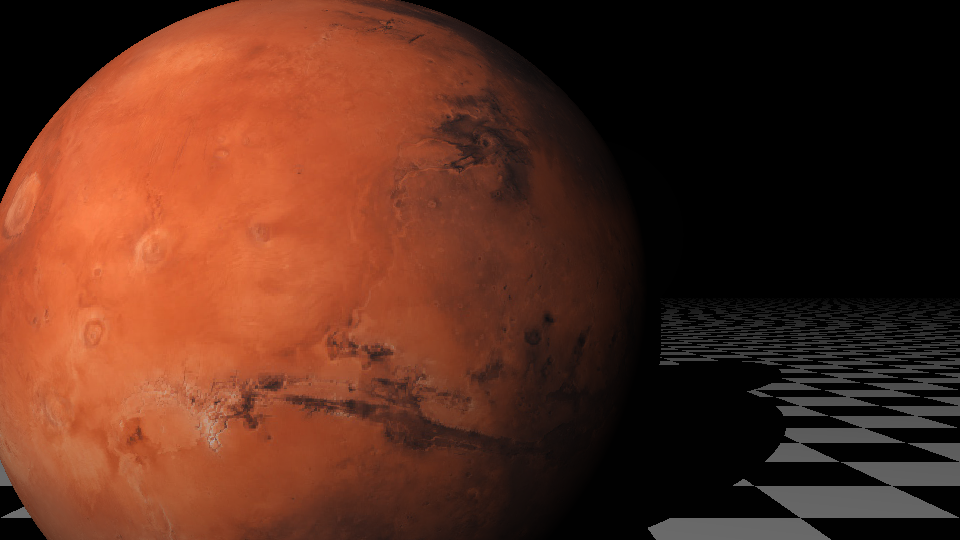
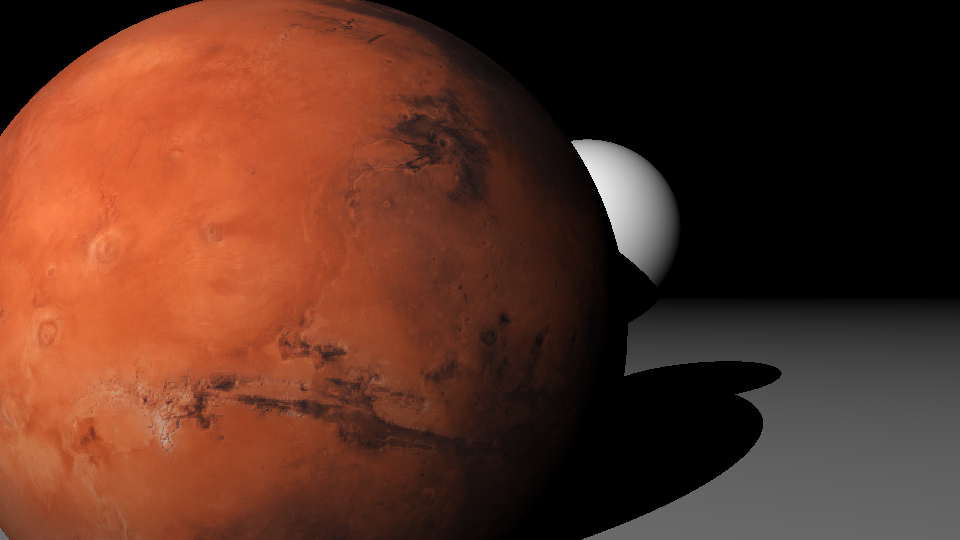
feat: create texture slot

diff --git a/ray_tracer/infrastructure/numpy/shader.py b/ray_tracer/infrastructure/numpy/shader.py
@@ -1,7 +1,10 @@
+from dataclasses import dataclass
 from functools import reduce
+from pathlib import Path
 from typing import Self
 
 import numpy as np
+from PIL import Image
 
 from ray_tracer.application import Renderer, Shader
 from ray_tracer.domain import DomeLight, Scene3D, Shape
@@ -11,6 +14,21 @@ from ray_tracer.infrastructure.numpy.shape import NumpyTexturedSphere
 FARAWAY = 1.0e39
 
 
+@dataclass
+class Slot:
+    color: NumpyRGBColor | Path | None
+    intensity: float
+
+
+@dataclass
+class Specular(Slot):
+    roughness: float
+
+
+class Diffuse(Slot):
+    pass
+
+
 class Texture:
     def __init__(self, color: NumpyRGBColor | None = None) -> None:
         self.color = color if color is not None else NumpyRGBColor(1, 1, 1)
@@ -18,16 +36,6 @@ class Texture:
     def get_color(self, intersection_point: NumpyVectorArray3D) -> NumpyRGBColor:
         """Returns the color of the texture at the intersection point."""
         return self.color
-
-
-# class UVTexture(Texture):
-#     def __init__(self, texture_path: str) -> None:
-#         image = Image.open(texture_path).convert("RGB")
-#         self.texture = np.asarray(image) / 255.0
-#         self.height, self.width, _ = self.texture.shape
-
-#     def get_color(self, intersection_point: NumpyVectorArray3D) -> NumpyRGBColor:
-#         return super().get_color(intersection_point)
 
 
 class TextureChecker(Texture):
@@ -46,23 +54,23 @@ class TextureChecker(Texture):
 class NumpyShader(Shader):
     def __init__(
         self,
+        diffuse_slot: Diffuse,
+        specular_slot: Specular,
         reflection_gain: float,
         specular_gain: float,
         specular_roughness: float,
         iridescence_gain: float,
-        diffuse_gain: float,
-        diffuse_color: Texture,
     ):
         self.reflection_gain = reflection_gain
         self.specular_gain = specular_gain
         self.specular_roughness = specular_roughness
         self.iridescence_gain = iridescence_gain
-        self.diffuse_gain = diffuse_gain
-        self.diffuse_color = diffuse_color
         self.specular_ior = 1.5  # default value for glass
         self.thin_film_weight = 0.1  # range [0, 1]
         self.thin_film_thickness = 0.3  # range [0, 1]
         self.thin_film_ior = 1.4  # range [1, 3]
+        self.diffuse_slot = diffuse_slot
+        self.specular_slot = specular_slot
 
     def to_rgb(self, shader: Self) -> NumpyRGBColor:
         return NumpyRGBColor(
@@ -94,9 +102,9 @@ class NumpyShader(Shader):
             shape,
         )
 
-        color = self._calculate_ambient_color()
+        # color = self._calculate_ambient_color()
 
-        color += self._calculate_diffuse(intersection_point, normal, direction_to_light, is_in_light, shape)
+        color = self._calculate_diffuse(intersection_point, normal, direction_to_light, is_in_light, shape)
 
         reflection = self._calculate_reflection(
             nudged_intersection_point,
@@ -147,13 +155,18 @@ class NumpyShader(Shader):
         """Calculates the diffuse color of the shape at the intersection point."""
         diffuse_light_intensity = np.maximum(normal.dot(direction_to_light), 0)
 
-        # Check if the shape is a NumpyTexturedSphere and apply texture
-        if isinstance(shape, NumpyTexturedSphere):
-            texture_color = shape.diffusecolor(intersection_point)
-        else:
-            texture_color = self.diffuse_color.get_color(intersection_point)
+        if self.diffuse_slot.color and isinstance(self.diffuse_slot.color, Path):
+            diffuse_color = Image.open(self.diffuse_slot.color).convert("RGB")
 
-        return texture_color * diffuse_light_intensity * is_in_light * self.diffuse_gain
+            u, v = shape.get_uvs(intersection_point)
+            diffuse_color = self.get_texture_color(diffuse_color, u, v)
+
+        elif isinstance(self.diffuse_slot.color, NumpyRGBColor):
+            diffuse_color = self.diffuse_slot.color
+        else:
+            diffuse_color = NumpyRGBColor(0.5, 0.5, 0.5)
+
+        return diffuse_color * diffuse_light_intensity * is_in_light * self.diffuse_slot.intensity
 
     def _calculate_reflection(  # TODO: VOIR TRANSMISSION
         self,
@@ -333,3 +346,17 @@ class NumpyShader(Shader):
         spec_final = NumpyRGBColor(1, 1, 1) * np.where(NdotV <= 0, 0, spec_final)
 
         return NumpyRGBColor(spec_final.x, spec_final.y, spec_final.z)
+
+    def get_texture_color(self, texture: Image, u: np.ndarray, v: np.ndarray) -> NumpyRGBColor:
+        texture_data = np.array(texture)  # shape = (height, width, channels)
+
+        u = np.mod(u, 1)  # if u > 1, wrap around
+        v = np.mod(v, 1)
+
+        # find u and v in the image
+        i = (u * (texture_data.shape[1] - 1)).astype(int)
+        j = (v * (texture_data.shape[0] - 1)).astype(int)
+
+        colors = texture_data[j, i, :3] / 255.0
+
+        return NumpyRGBColor(colors[..., 0], colors[..., 1], colors[..., 2])

diff --git a/ray_tracer/infrastructure/numpy/shape.py b/ray_tracer/infrastructure/numpy/shape.py
@@ -53,6 +53,14 @@ class NumpySphere(Shape):
     def diffusecolor(self, intersection_point: NumpyVectorArray3D) -> NumpyRGBColor:
         return NumpyRGBColor(1, 1, 1)
 
+    def get_uvs(self, hit_point: NumpyVector3D) -> NumpyRGBColor:
+        normals = hit_point - self.center
+
+        u = 0.5 + np.arctan2(normals.z, normals.x) / (2 * np.pi)
+        v = 0.5 - np.arcsin(normals.y) / np.pi
+
+        return u, v
+
 
 class NumpyTexturedSphere(NumpySphere):
     def __init__(
@@ -70,42 +78,12 @@ class NumpyTexturedSphere(NumpySphere):
         self.texture = Image.open(texture_path).convert("RGB")
         # self.texture = np.asarray(image) / 255.0
 
-    # def diffusecolor(self, intersection_point: NumpyVectorArray3D) -> NumpyRGBColor:
-    #     normal = (intersection_point - self.center).norm()
-
-    #     u = 0.5 + np.arctan2(normal.z, normal.x) / (2 * np.pi)
-    #     v = 0.5 - np.arcsin(normal.y) / np.pi
-
-    #     u = u % 1  # Repeat if u > 1
-    #     v = v % 1
-    #     height, width, _ = self.texture.shape
-
-    #     i = (u * (width - 1)).astype(int) if isinstance(u, np.ndarray) else int(u * (width - 1))
-    #     j = (v * (height - 1)).astype(int) if isinstance(v, np.ndarray) else int(v * (height - 1))
-
-    #     color = self.texture[j, i, :3]
-    #     if len(color.shape) > 1 and color.shape[0] > 1:
-    #         color = color.mean(axis=0)  # Reduce to a single RGB value by averaging
-    #     if color.shape != (3,):
-    #         if color.shape == (1, 3):
-    #             color = color.flatten()
-    #         else:
-    #             raise ValueError(f"Expected 3 color channels, but got {color.shape}")
-    #     r, g, b = color
-    #     return NumpyRGBColor(r, g, b)
-
     def diffusecolor(self, hit_point: NumpyVector3D) -> NumpyRGBColor:
         """Calcule la couleur diffusée à partir d'un point d'impact, en tenant compte de la texture.
         On considère que les composantes de hit_point et self.center sont des tableaux NumPy.
         """
         if self.texture:
-            # Calculer le vecteur normal pour chaque hit_point.
             normals = hit_point - self.center
-            # Calculer la norme sur l'axe approprié selon la structure de vos vecteurs.
-            # Ici, j'assume que les données sont rangées de sorte à ce que l'axe 0
-            # représente les composantes x, y, z par exemple.
-            # norm = normals.norm()
-            # normals = normals / norm
 
             # Calculer les coordonnées de texture (u, v) pour tous les points
             u = 0.5 + np.arctan2(normals.z, normals.x) / (2 * np.pi)
@@ -114,24 +92,3 @@ class NumpyTexturedSphere(NumpySphere):
             return get_texture_color(self.texture, u, v)
         else:
             return NumpyRGBColor(0.5, 0.5, 0.5)
-
-
-def get_texture_color(texture: Image, u, v) -> NumpyRGBColor:
-    """Récupère, de façon vectorisée, la couleur à partir d'une texture pour des coordonnées UV données.
-    Les coordonnées u et v sont supposées être des tableaux NumPy.
-    """
-    # Convertir l'image en tableau NumPy (par exemple, shape = (hauteur, largeur, canaux)).
-    texture_data = np.array(texture)
-
-    # Gérer la répétition si u ou v sont supérieures à 1
-    u = np.mod(u, 1)
-    v = np.mod(v, 1)
-
-    # Calculer les indices dans l'image
-    i = (u * (texture_data.shape[1] - 1)).astype(int)
-    j = (v * (texture_data.shape[0] - 1)).astype(int)
-
-    # Extraction vectorisée des pixels
-    colors = texture_data[j, i, :3] / 255.0
-    # On suppose que NumpyRGBColor peut être construit en passant les trois tableaux correspondant aux composantes R, G et B.
-    return NumpyRGBColor(colors[..., 0], colors[..., 1], colors[..., 2])

diff --git a/main.py b/main.py
@@ -4,7 +4,7 @@ from pathlib import Path
 from ray_tracer.application import render_image_pipeline
 from ray_tracer.domain import Camera, DomeLight, PointLight, Scene3D
 from ray_tracer.infrastructure.numpy.base import NumpyRenderer, NumpyVector3D
-from ray_tracer.infrastructure.numpy.shader import NumpyShader, Texture, TextureChecker
+from ray_tracer.infrastructure.numpy.shader import Diffuse, NumpyShader, Specular, Texture, TextureChecker
 from ray_tracer.infrastructure.numpy.shape import NumpyRGBColor, NumpySphere, NumpyTexturedSphere
 
 if __name__ == "__main__":
@@ -16,31 +16,37 @@ if __name__ == "__main__":
                 NumpyVector3D(0.55, 0.5, 3),
                 0.5,
                 NumpyShader(
+                    Diffuse(NumpyRGBColor(1, 1, 1), 1.0),
+                    Specular(NumpyRGBColor(0, 1, 1), 0.5, 0.5),
                     reflection_gain=0.0,
                     specular_gain=0,
                     specular_roughness=0.01,
                     iridescence_gain=0,
-                    diffuse_gain=0.0,
-                    diffuse_color=Texture(NumpyRGBColor(1, 1, 1)),
                 ),
             ),
-            NumpyTexturedSphere(
-                NumpyVector3D(-0.45, 0.1, 1),
+            NumpySphere(
+                NumpyVector3D(-0.55, 0.1, 1),
                 1,
                 NumpyShader(
+                    Diffuse(Path("sourceimages/2k_mars.jpg"), 1.0),
+                    Specular(NumpyRGBColor(1, 1, 1), 1.0, 0.5),
                     reflection_gain=0,
                     specular_gain=0.1,
                     specular_roughness=0.1,
                     iridescence_gain=0.0,
-                    diffuse_gain=1.0,
-                    diffuse_color=Texture(NumpyRGBColor(1, 1, 1)),
                 ),
-                Path("sourceimages/2k_mars.jpg"),
             ),
             NumpySphere(
                 NumpyVector3D(0, -99999.5, 0),
                 99999,
-                NumpyShader(0.0, 0.1, 0.5, 0.0, 1.0, TextureChecker()),
+                NumpyShader(
+                    Diffuse(NumpyRGBColor(1, 1, 1), 1.0),
+                    Specular(NumpyRGBColor(0, 1, 1), 0.5, 0.5),
+                    0.1,
+                    0.5,
+                    0.0,
+                    1.0,
+                ),
             ),
         ],
         [  # TODO: use multiple lights
